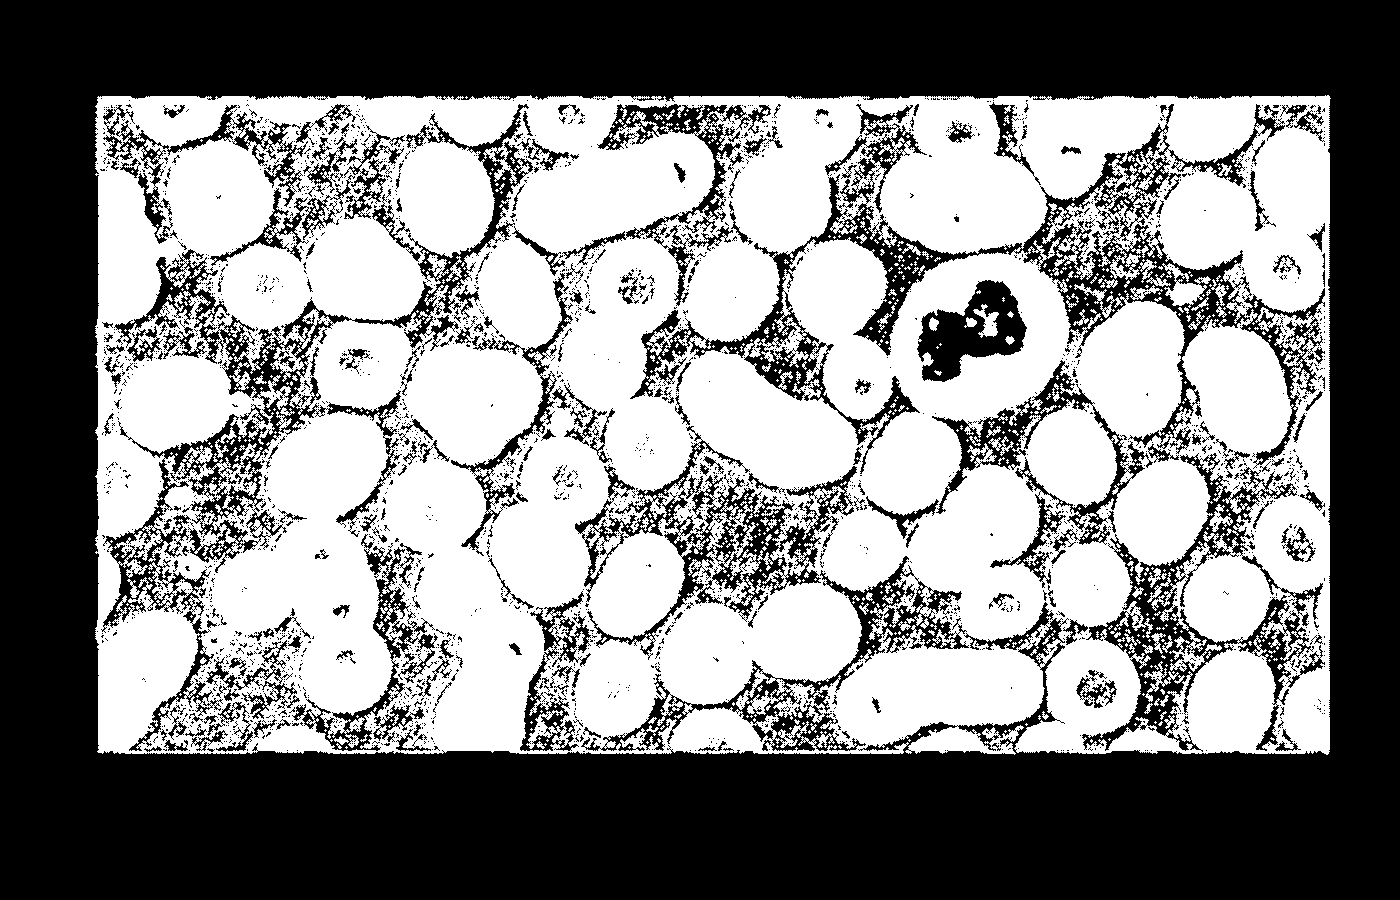
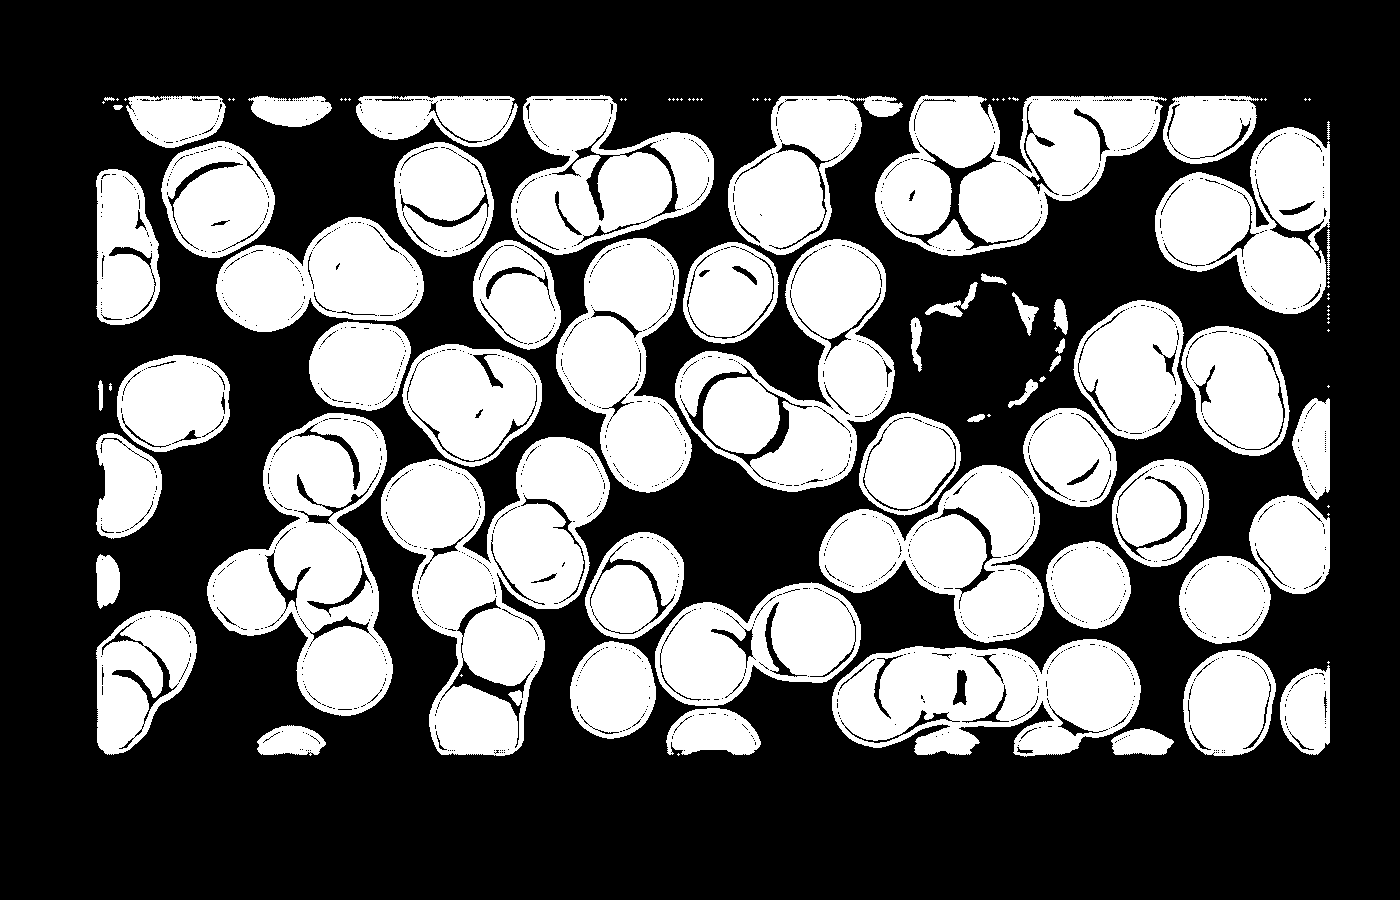
Updated new output (rbc) results!

Changed region(s): [[0.0614, 0.0933, 0.9521, 0.84]]

diff --git a/bc-count/main.py b/bc-count/main.py
@@ -411,18 +411,18 @@ def distance_transform(img='threshold_edge_mask.png'):
 
 
 if __name__ == '__main__':
-    train('rbc')
+    # train('rbc')
     # evaluate(model_name='quadtree_test')
-    # predict()
-    # threshold('mask.png')
+    predict()
+    threshold('mask.png')
 
-    # if cell_type == 'rbc':
-    #     threshold('edge.png')
-    #     threshold('edge_mask.png')
-    #     distance_transform('threshold_edge_mask.png')
-    #     hough_transform('edge.png')
-    # else:
-    #     distance_transform('threshold_mask.png')
-    #     hough_transform('mask.png')
+    if cell_type == 'rbc':
+        threshold('edge.png')
+        threshold('edge_mask.png')
+        distance_transform('threshold_edge_mask.png')
+        hough_transform('edge.png')
+    else:
+        distance_transform('threshold_mask.png')
+        hough_transform('mask.png')
 
-    # component_labeling('distance_transform.png')
+    component_labeling('distance_transform.png')
